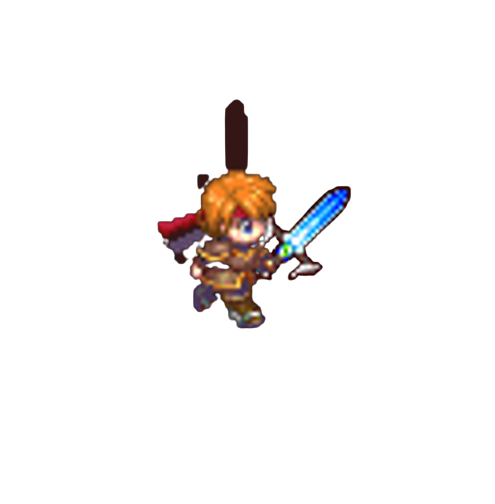
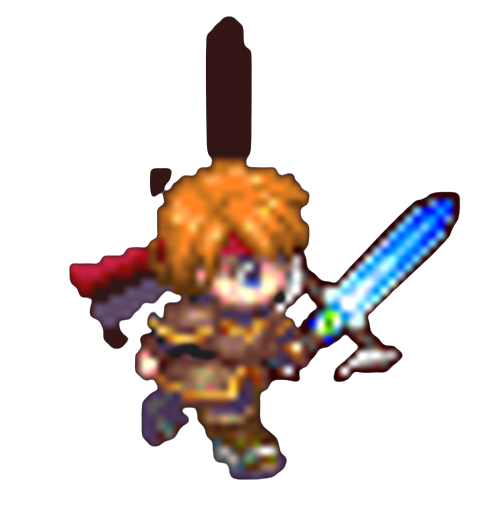
day18 과제6

Changed region(s): [[0.122, 0.0298, 0.9451, 0.9524]]

diff --git a/frontend/public/JS/과제/과제6/index.js b/frontend/public/JS/과제/과제6/index.js
@@ -28,7 +28,6 @@ let mobList = [
 //js 열릴때 시작할 함수
 mobPrint(user.level-1)	// 첫 몬스터 출력함수
 userinfo()				// 유저 정보 출력함수
-console.log(m_left)
 
 //2. 이동 이벤트
 document.addEventListener('keydown' , (e)=>{
@@ -40,21 +39,22 @@ document.addEventListener('keydown' , (e)=>{
 		}else{document.querySelector('.textbox').innerHTML =`공격태세로 전환합니다.`}
 		userinfo()
 	}
-	if(key==37){ //왼쪽키 입력되었을때
+	else if(key==37){ //왼쪽키 입력되었을때
 		u_left -= 10;
 		u_left = u_left < 0 ? u_left=0 : u_left ;	//만약 차감된 왼쪽 좌표가 0보다 작으면 0으로 고정, 아니면 전진
 		userbox.style.backgroundImage = `url(img/mario3.png)`
+		userbox.style.backgroundSize = `120%`;
 	}else if(key==39){ //오른쪽키 입력 되었을 때
 		u_left += 10;
 		u_left = u_left>910 ? 910 : u_left 
 		userbox.style.backgroundImage = `url(img/mario2.png)`	//이동모션이미지
-		userbox.style.size = `110%`;
+		userbox.style.backgroundSize = `110%`;
 	}else if(key==65){	//a키가 입력되었을때 -> 공격
 		if(user.state==false){
 			document.querySelector('.textbox').innerHTML =`방어태세일때는 공격할 수 없습니다.`
 		}else{
-			userbox.style.backgroundImage = `url(img/mario5.jpg)`	//공격모션이미지
-			userbox.style.backgroundsize = `110%`;
+			userbox.style.backgroundImage = `url(img/mario7.png)`	//공격모션이미지
+			userbox.style.backgroundSize = `110%`;
 			//a키 눌렀을때 몬스터가 타격사거리 안에 있으면 몬스터의 HP 감소
 			if((m_left-u_left)<100&&(u_left-m_left)<30){
 				mob_hp -= user.power;
@@ -87,9 +87,13 @@ document.addEventListener('keydown' , (e)=>{
 
 //2. 문서 안에서 키 떼었을때 이벤트
 document.addEventListener('keydown' , (e)=>{
+	let key = e.keyCode;	//입력된 키 코드를 변수에 저장
 	if(user.state==false){
 		userbox.style.backgroundImage = `url(img/mario4.png)`
-	}else{userbox.style.backgroundImage = `url(img/mario1.png)`}
+	}else if(key!=83&&key!=37&&key!=39&&key!=65){
+		userbox.style.backgroundImage = `url(img/mario1.png)`
+		userbox.style.backgroundSize = `100%`;
+	}
 })
 
 // 3. 몬스터 이동 난수 [ 랜덤 -> 1초마다 이동]

diff --git a/frontend/public/JS/과제/과제6/index.css b/frontend/public/JS/과제/과제6/index.css
@@ -42,7 +42,7 @@ body{background-color: black;}
 	position: absolute;	/* 절대 위치 : 상위요소 relative*/
 	left: 10px; top: 430px;
 	background-image: url("img/mario1.png");
-	background-size: 90%;
+	background-size: 100%;
 	background-repeat: no-repeat;
 }
 
